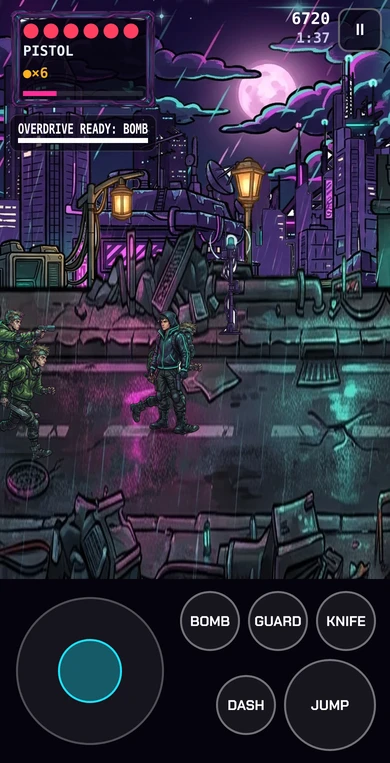
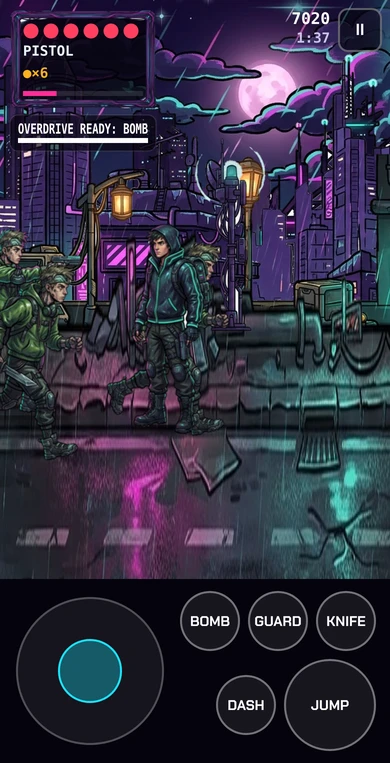
Street purefoot: actors 1.7x, full-width PC canvas, no foreground debris strip, head-sized enemy orb

Changed region(s): [[0.0, 0.1809, 1.0, 0.7837], [0.7385, 0.0, 0.8, 0.0301]]

diff --git a/games-src/nightrun/parts/street/streetlook.js b/games-src/nightrun/parts/street/streetlook.js
@@ -48,7 +48,7 @@ SL.face=(P,hit)=>{const S=F.S,vw=IN.L().vw;let ah=0,bh=0;for(const e of S.E){if(
   if(!ah&&bh)P.facing=-P.facing;};
 
 /* ----- the scale for this frame and the height map (world y -> drawn y; the road line and everything under it stay put) ----- */
-function slFrame(L){const VV=SL.port?SL.VV:L.box.h/L.sc,K=Math.max(1,.225*VV/CH),t0=VH-VV,room=FL-t0-14-62*K;   // room: drawn height above the road a 58-unit flyer's feet may use
+function slFrame(L,m){const VV=SL.port?SL.VV:L.box.h/L.sc,K=Math.max(1,.225*(m||1)*VV/CH),t0=VH-VV,room=FL-t0-14-62*K;   // room: drawn height above the road a 58-unit flyer's feet may use
   SL.VV=VV;SL.k=K;SL.t0=t0;SL.d0=Math.min(150,room*.8/K);SL.s=clamp((room-K*SL.d0)/(DTOP-SL.d0),.25,K);SL.band=RET.belt?Math.round(.27*VV):0;SL.z=null;}   // W173 belt: the floor band is 27% of the view tall, its front edge on the old road line
 const my=y=>{const d=FL-y;if(d<=0)return y;const K=SL.k,d0=SL.d0;return FL-(d<=d0?d*K:d0*K+(d-d0)*SL.s);};
 SL.my=my;
@@ -100,7 +100,8 @@ SL.paint=0;
 function slPainted(c,x0,w,cam,t0){const P={};for(const l of PLY){const q=slPic('bg-'+l);if(!q||!q.width)return false;P[l]=q;}
   const FR=FL-(SL.band||0),DH=(FR-t0)/.8,TW=2*DH,tile=(l,y,h,sy,sh)=>{const off=cam*PSP[l];let x=x0-((off%TW)+TW)%TW;SL.tag='L-'+l;for(;x<x0+w;x+=TW)c.drawImage(P[l],0,sy,P[l].width,sh,x,y,TW+1,h);SL.tag='';};
   const H=P.sky.height;tile('sky',t0-4,FR-t0+8,0,RET.artfix?Math.min(H,Math.round(H*(FR-t0+8)/DH)):H);/* artfix: the sky keeps its own aspect (only the rows above the street line, not the whole picture squeezed into them) */for(const l of ['far','mid','near'])tile(l,t0,DH,0,P[l].height);
-  const DF=Math.max(DH,(VH+2-FR)/.2),fy=FR-.8*DF,r0=.69;tile('floor',fy+r0*DF,(1-r0)*DF,Math.round(r0*P.floor.height),P.floor.height-Math.round(r0*P.floor.height));   // only the floor rows (the top of the picture is transparent)
+  const DF=Math.max(DH,(VH+2-FR)/.2),fy=FR-.8*DF,r0=.69;if(RET.purefoot){const H2=P.floor.height,a=Math.round(r0*H2),e=Math.round(.9*H2),y0=fy+r0*DF;tile('floor',y0,Math.max((e-a)*DF/H2,VH+2-y0),a,e-a);}   /* W217 purefoot: the debris strip at the bottom of the floor picture is left out; the wet road rows reach the screen edge (stretched down, nearer road) */
+  else tile('floor',fy+r0*DF,(1-r0)*DF,Math.round(r0*P.floor.height),P.floor.height-Math.round(r0*P.floor.height));   // only the floor rows (the top of the picture is transparent)
   SL.paint=1;return true;}
 function slBackdrop(c,S,vw,exl,exr,t0,res){const x0=-exl,w=vw+exl+exr,cam=S.camX,FR=FL-(SL.band||0),fh=FR-t0;
   if(slPainted(c,x0,w,cam,t0)){SL.x0=x0;if(typeof ART!=='undefined'&&ART.footProps)ART.footProps(c,cam,w,FR,S.time);return;}SL.paint=0;

diff --git a/games-src/nightrun/parts/street/purefoot.js b/games-src/nightrun/parts/street/purefoot.js
@@ -26,7 +26,7 @@ function tells(c,L,S,u,fs){const b=L.hud&&L.hud.hud&&L.hud.hud[0];if(!b)return;c
   c.textAlign='left';c.textBaseline='top';c.font='bold '+fs(12)+'px monospace';rows.forEach(([t,v,col],i)=>{const ry=y+pd+i*rh;c.fillStyle=col;c.fillText(t,x+pd,ry,w-2*pd);
     c.fillStyle='#ffffff1c';c.fillRect(x+pd,ry+15*u,w-2*pd,5*u);c.fillStyle=col;c.fillRect(x+pd,ry+15*u,(w-2*pd)*Math.max(0,Math.min(1,v)),5*u);});c.restore();
   L.hud.hud.push({x,y:y-t0,w,h});SL.hudB=Math.max(SL.hudB||0,y-t0+h+8*u);}
-function pure(c){const L=IN.L(),S=F.S;if(!L||!S)return false;X.slFrame(L);
+function pure(c){const L=IN.L(),S=F.S;if(!L||!S)return false;X.slFrame(L,1.7);   // actors 1.7x (benchmark-size); slFrame(L) at the end puts the base scale back for gameplay readers (tidy.js flyer band)
   const K=SL.k,t0=SL.t0,dpr=L.dpr||1,sc=L.sc*dpr,vw=L.vw,exl=L.exl||0,exr=L.exr||0,P=S.P,u=1/L.sc,at=X.at;
   c.imageSmoothingEnabled=true;c.imageSmoothingQuality='high';
   c.setTransform(1,0,0,1,0,0);c.fillStyle='#05030c';c.fillRect(0,0,L.cv.width,L.cv.height);
@@ -53,8 +53,8 @@ function pure(c){const L=IN.L(),S=F.S;if(!L||!S)return false;X.slFrame(L);
     if(e.patch)for(let x=e.patch.x0+12;x<e.patch.x1;x+=24){at(c,x,FL-10,K);pic(c,'fx-ft-flame',x,FL-10,30,-Math.PI/2,.8);c.restore();}}SL.z=null;
   for(const b of S.pb){SL.z=b.z;at(c,b.x,b.y,K);window.AH&&AH.ftBul(c,b);c.restore();}
   for(const g of S.bombsL){SL.z=g.z;at(c,g.x,g.y,K);pic(c,'fx-ft-grenade',g.x,g.y,22,S.time*7);c.restore();}
-  for(const b of S.eb){SL.z=b.z;at(c,b.x,b.y,K);const ko=keyed('fx-bullet-enemy');if(ko){const w=14,h=w*ko.height/ko.width;c.drawImage(ko,b.x-w/2,b.y-h/2,w,h);}else{c.fillStyle=b.c;c.beginPath();c.arc(b.x,b.y,b.r,0,6.283);c.fill();}c.restore();}   // no picture yet: the plain shot
+  for(const b of S.eb){SL.z=b.z;at(c,b.x,b.y,K);const ko=keyed('fx-bullet-enemy');if(ko){const w=11,h=w*ko.height/ko.width;c.drawImage(ko,b.x-w/2,b.y-h/2,w,h);}else{c.fillStyle=b.c;c.beginPath();c.arc(b.x,b.y,b.r,0,6.283);c.fill();}c.restore();}   // no picture yet: the plain shot
   SL.z=null;for(const f of S.fx){if(!window.AH)break;if(f.pic){if(SL.band)SL.z=f.z==null?null:f.z;at(c,f.x,f.y,K);AH.ftFx(c,f);c.restore();}else if(f.arc)AH.ftArc(c,Object.assign({},f,{arc:f.arc.map(([x,y])=>[x,SL.my(y)])}));}SL.z=null;
-  c.restore();const fs=n=>Math.max(14,n)*u;SL.hudB=0;X.slHud(c,L,S,vw,u,fs);tells(c,L,S,u,fs);return true;}
+  c.restore();const fs=n=>Math.max(14,n)*u;SL.hudB=0;X.slHud(c,L,S,vw,u,fs);tells(c,L,S,u,fs);const hb=SL.hudB,hf=SL.hudFull;X.slFrame(L);SL.hudB=hb;SL.hudFull=hf;return true;}
 SL.draw=function(c){return RET.purefoot?pure(c):old.apply(this,arguments);};
 })();

diff --git a/games-src/nightrun/parts/street/foot.js b/games-src/nightrun/parts/street/foot.js
@@ -432,7 +432,7 @@ function layout(){if(!L)return;const vv=window.visualViewport,W=Math.round(vv?vv
   const vw=Math.min(760,cw/sc),hpx=Math.round(VH*sc);cx+=Math.round((cw-vw*sc)/2);
   cy=mode==='port'?Math.max(0,Math.round((ch-hpx)*.5)):Math.round((H-hpx)/2);
   L.sc=sc;L.vw=vw;L.mode=mode;L.box={x:cx,y:cy,w:Math.round(vw*sc),h:hpx};
-  const full=mode==='land',ox=full?0:cx,oy=full?0:cy,ow=full?W:L.box.w,oh=full?H:hpx;   // landscape: the canvas is the whole screen, the backdrop runs under the pad
+  const full=mode==='land'||RET.purefoot&&mode==='full',ox=full?0:cx,oy=full?0:cy,ow=full?W:L.box.w,oh=full?H:hpx;   // landscape: the canvas is the whole screen, the backdrop runs under the pad
   L.ox=ox;L.oy=oy;L.exl=(cx-ox)/sc;L.exr=(ow-(cx-ox)-L.box.w)/sc;
   const cv=L.cv;cv.style.left=ox+'px';cv.style.top=oy+'px';cv.style.width=ow+'px';cv.style.height=oh+'px';cv.width=Math.round(ow*dpr);cv.height=Math.round(oh*dpr);L.dpr=dpr;
   const show=T,auto=autoOn(),set=(el,x,y,s)=>{el.hidden=!show;el.style.display=show?'':'none';el.style.left=Math.round(x)+'px';el.style.top=Math.round(y)+'px';if(s){el.style.width=el.style.height=Math.round(s)+'px';}};

diff --git a/games-src/nightrun/review-shots/W217/README.md b/games-src/nightrun/review-shots/W217/README.md
@@ -5,7 +5,7 @@ Code: `parts/street/purefoot.js` (new, the outermost `F.look.draw`), one export 
 `!RET.purefoot` guards in `streetlook.js` `slHud`, the flag + DPR line in `foot.js`, one line in `build.py`. Also a phone-button fix in
 `streetguard.js` (below).
 
-Shots: stage `zeil`, seed 7, stepped with `FOOT.sim(1/60)` by a fighting bot (stops when foes are on screen, steps back towards foes
+Shots (round 3: actors 1.7x, full-width PC, no debris strip): stage `zeil`, seed 7, stepped with `FOOT.sim(1/60)` by a fighting bot (stops when foes are on screen, steps back towards foes
 behind, fires), then ONE draw (`qa/purefoot-shot.js`). On and off are the same step of the same run (phone step 5816, PC step 3122:
 same foes, same positions, same shot in the air).
 - `phone-purefoot-off.webp` / `phone-purefoot-on.webp` (390x763, rendered at 3x, saved at 1x)
@@ -29,7 +29,7 @@ Line numbers are on this branch (`parts/street/...` unless named).
 | Front-shield bar (blue rect) | streetlook.js:143 | off |
 | Shield ring (code arc), dash afterimage box | streetlook.js:149-150 | off |
 | Muzzle fallback white disc | streetlook.js:152 | off (owner muzzle picture `fx-ft-*-muzzle` only) |
-| Enemy shots: dark ring + flat disc (READ.footEb) or disc + white core | streetlook.js:157, render/readable.js:63 | owner `fx-bullet-enemy` orb as a keyed copy (alpha from brightness, faint outer glow cut, cropped to the core), normal blend, 14 units wide (about the pistol muzzle flash; round 2, orchestrator: the first version drew it ~150 px) |
+| Enemy shots: dark ring + flat disc (READ.footEb) or disc + white core | streetlook.js:157, render/readable.js:63 | owner `fx-bullet-enemy` orb as a keyed copy (alpha from brightness, faint outer glow cut, cropped to the core), normal blend, 11 units wide (round 3: about 1.2x a head; round 1 drew it ~150 px). Drawn where the shot is in the sim (its hit height), not moved to the muzzle: moving the picture would show the shot where it cannot hit |
 | Player shots without a picture: rects / discs | streetlook.js:155 | owner `fx-ft-*` bullet pictures only |
 | Effects: slash arcs, rings (e.g. CALLING HELP ring, streethard.js:50), particle squares | streetlook.js:160-163 | off; owner fx pictures (`f.pic`) and the arc picture stay |
 | Floating text in the field ("+120", "+180 BEAT", "CALLING HELP") | streetlook.js:165-166, streethard.js:46 | off |
@@ -48,7 +48,9 @@ Line numbers are on this branch (`parts/street/...` unless named).
 | HUD panel (hearts, weapon, bombs, power-ups, fever), score + time, boss bar | streetlook.js:174-197 | kept: edge HUD |
 | Backing store capped by a 2.2 MP budget (then the browser scales the canvas up) | foot.js:427 | full device pixel ratio (max 3), no budget |
 | Image smoothing quality | (default low unless footq sets it) | `high` every frame |
-| Actor scale | one world scale K for all (streetlook.js slFrame) | unchanged: Kai and foes already share one texel scale |
+| Actor scale | one world scale K = 0.225 x field / 64 for all (streetlook.js slFrame) | round 3: 1.7x (K = 0.38 x field / 64), still one scale for every actor, pickup, shot and fx; purefoot puts the base K back after its frame because tidy.js reads SL.k to keep flyers under the HUD (with the big K left in place, streetsim changed: dodge 65% -> 55%) |
+| PC letterbox: the canvas was only the 760-unit view (black bars on 1440x860) | foot.js:434 | round 3: the canvas is the whole window on desktop; the backdrop and anything near the edge draw under the side bands (L.exl / L.exr, as on landscape phones). The view width and the camera are unchanged |
+| Foreground debris strip at the bottom of the floor picture (covered feet on the phone) | streetlook.js slPainted, floor tile | round 3: left out; the wet-road rows (69-90% of the picture) are stretched down to the screen edge |
 | Walk lean, recoil, dust puffs, borrowed-hit white flash | streetfeel.js:87, art/art.js:223 | kept: motion of the owner sheets / owner dust picture |
 
 ## Strict critic pass (game-look SKILL.md), vs the benchmark beat-'em-up
@@ -87,3 +89,8 @@ slot (a restart) BOMB and GUARD sat on top of each other (two labels on one butt
 branch (props 1.7 characters, feet off the road line, layer speeds and the `test ran` error in the behave section fail there too); the
 HUD-text row passes with purefoot (the 9 px GUARD label under Kai is gone). `qa/occl-test.js` checks the occlusion fade, which purefoot
 does not draw: run it with `?purefoot=0`.
+
+## Art note for the owner (not done in code, WORKER-RULES 17f)
+
+Kai's sheet (dark hoodie, dark trousers) and the olive foes sit at the same value as the night street: a 2-3 px dark outline and a light
+rim from above on the actor sheets would make them read in grayscale. No tint or glow was added in code.
